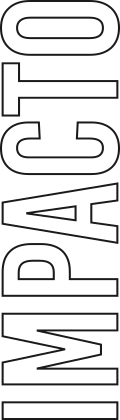
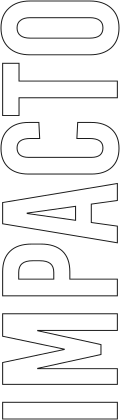
:sparkles: feat: Alterações: Home - Seção Impacto
- [x]  Afinar as linhas da palavra IMPACTO
- [x]  Alinhar IMPACTO na altura do título QUEM FAZ A PALMA.
- [x]  Esconder imagem na versão mobile

diff --git a/src/features/pages/home/HomeWho.jsx b/src/features/pages/home/HomeWho.jsx
@@ -46,29 +46,24 @@ export default function HomeWho() {
         >
           <Box
             sx={{
-              display: 'flex',
+              display: {
+                xs: 'none',
+                md: 'flex',
+              },
               alignItems: 'center',
-              justifyContent: {
-                xs: 'flex-start',
-                md: 'center',
-              },
-              position: {
-                xs: 'absolute',
-                md: 'relative',
-              },
+              justifyContent: 'center',
+              position: 'relative',
               width: '100%',
-              height: '420px',
             }}
           >
             <Box
               sx={{
                 position: 'relative',
-                zIndex: -1,
-                width: '120px',
-                height: '420px',
-                filter: {
-                  xs: 'opacity(0.1)',
-                  md: 'none',
+                display: 'block',
+                aspectRatio: '12 / 42',
+                height: {
+                  md: '547px',
+                  lg: '490px',
                 },
               }}
             >
